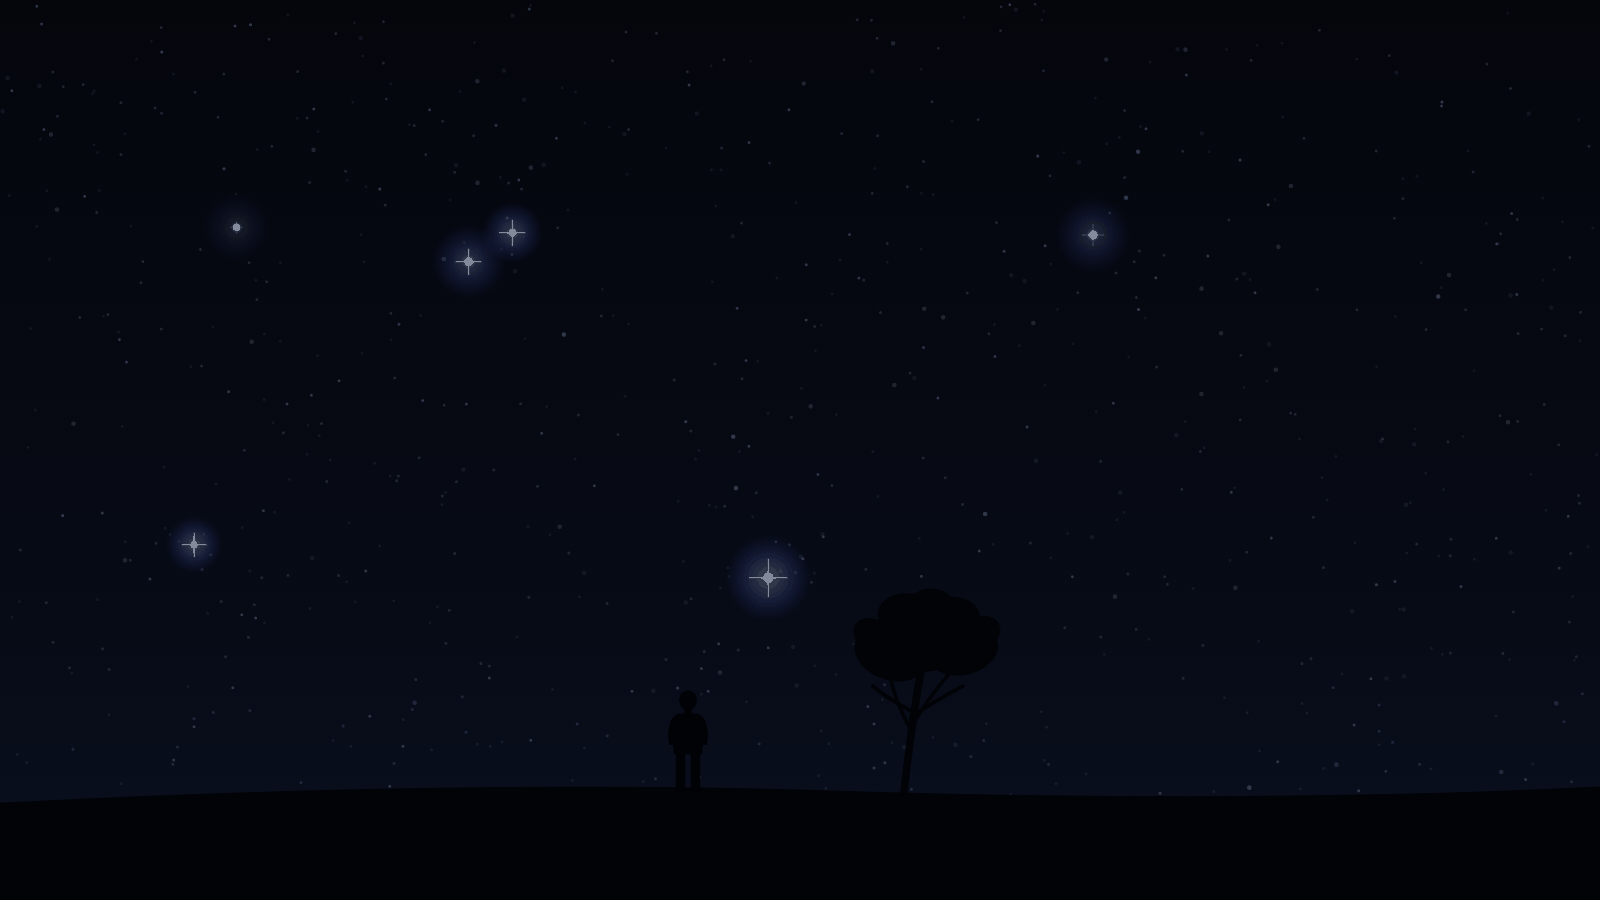
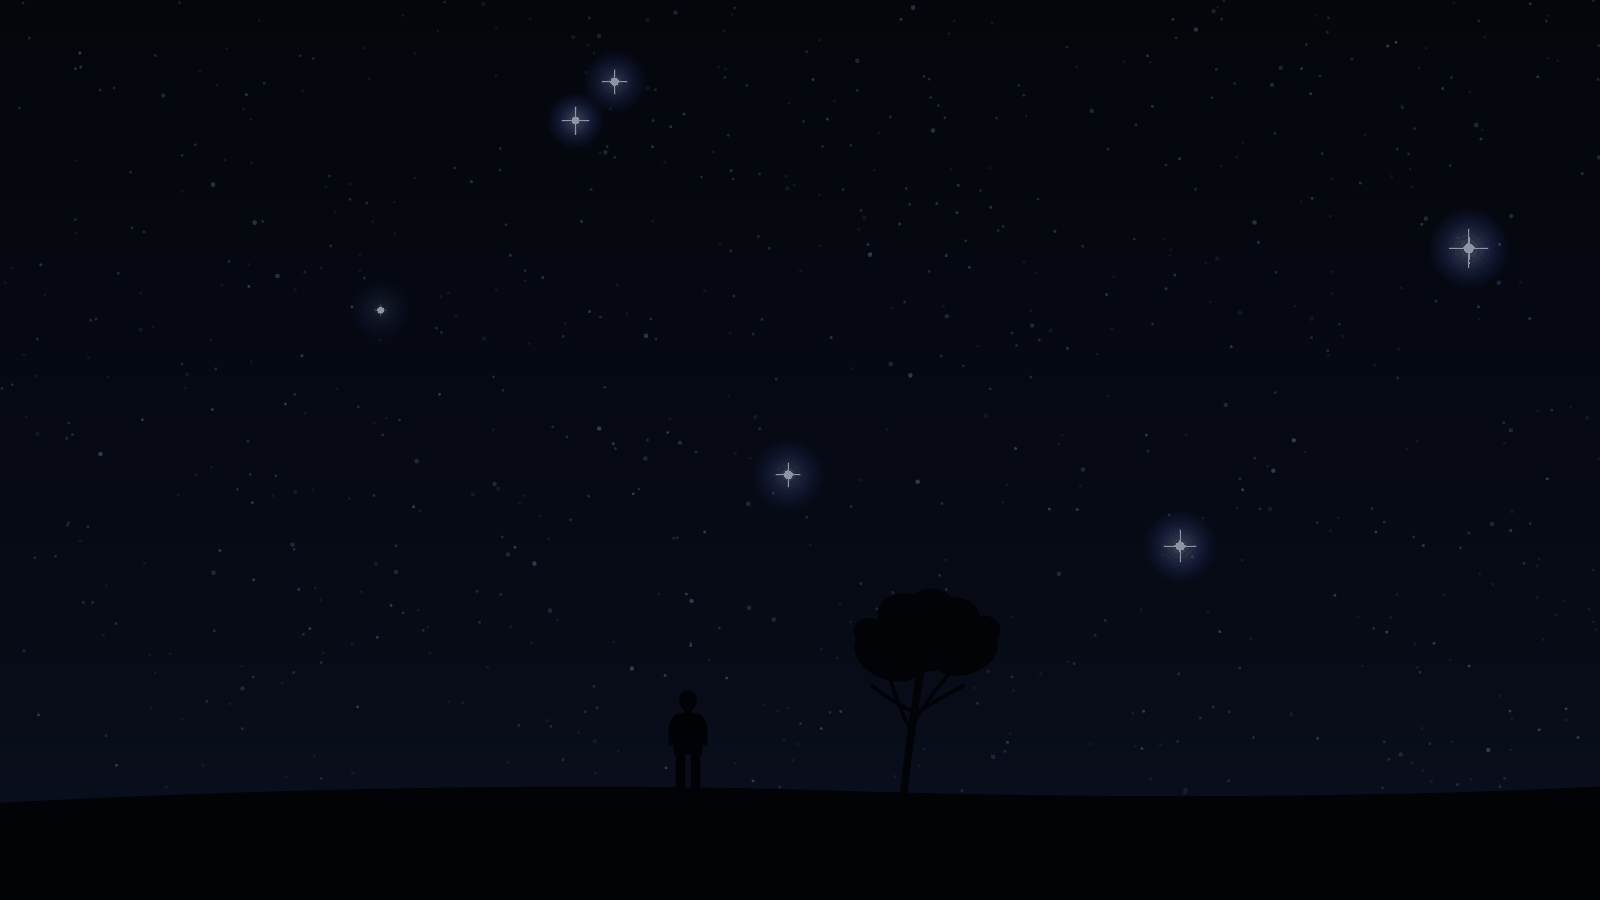
lab: 별 헤는 밤 — 누른 자리에 형상 고정(2.4초), 뗀 뒤 제자리에서 천천히 소멸
Claude-Session: https://claude.ai/code/session_018PZQoZuo4q6Eeps3ot9wVF

diff --git a/lab/sketches.js b/lab/sketches.js
@@ -50,4 +50,4 @@ LAB_ADD({ slug: "memory-surface", title: "Memory Surface", tech: "CANVAS 2D", ye
 LAB_ADD({ slug: "moire-lens", title: "Moiré Lens", tech: "CANVAS 2D", year: "2026", by: "ai", model: "GPT-6 Astra Light", summary: "같은 선, 다른 각도. 렌즈를 옮기고 각도를 바꾸면 두 겹의 선 사이에서 새로운 무늬가 나타납니다.", making: true });
 LAB_ADD({ slug: "laputa", title: "Laputa", tech: "three.js", year: "2026", by: "pair", model: "GPT-6 Astra Light", summary: "하늘 위 오래된 성을 탐색합니다. 드래그로 돌아보고, 휠로 가까이 다가가고, 더블클릭으로 작은 장소를 발견하세요.", making: true });
 LAB_ADD({ slug: "laputa-skyward", title: "Laputa / Skyward", tech: "three.js", year: "2026", by: "pair", model: "GPT-6 Astra Light", summary: "구름 사이를 돌아 하늘 위 성으로 다가갑니다. 느린 하늘과 함께 라퓨타를 탐색하는 두 번째 장면.", making: true });
-LAB_ADD({ slug: "star-counting-night", title: "별 헤는 밤", tech: "CANVAS 2D", year: "2026", by: "pair", model: "GPT-6 Astra Light · Claude Opus 5", summary: "윤동주의 시에서 시작한 밤하늘. 꾹 누르면 희미한 별들이 모여 형태가 되고, 손을 떼면 흩어지며 밝은 별 하나와 시구 한 줄이 남습니다.", making: true });
+LAB_ADD({ slug: "star-counting-night", title: "별 헤는 밤", tech: "CANVAS 2D", year: "2026", by: "pair", model: "GPT-6 Astra Light · Claude Opus 5", summary: "윤동주의 시에서 시작한 밤하늘. 누른 자리를 2~3초 지키면 희미한 별들이 모여 형상이 맺히고, 손을 떼면 그대로 천천히 옅어지며 밝은 별 하나와 시구 한 줄이 남습니다.", making: true });

diff --git a/lab/sketches/star-counting-night.html b/lab/sketches/star-counting-night.html
@@ -144,8 +144,11 @@ function sampleForm(count){
   return pts;
 }
 
-function gather(px,py){
+function gather(){
   const R=Math.min(w,h)*(0.15+Math.random()*0.06);
+  // 커서 위치가 아니라, 화면 가운데 근처에서 무작위로 자리를 잡습니다
+  const px=w*(0.5+(Math.random()-0.5)*0.34);
+  const py=h*(0.40+(Math.random()-0.5)*0.26);
   formCx=Math.max(R*1.15,Math.min(w-R*1.15,px));
   formCy=Math.max(R*1.15,Math.min(h*0.76-R*0.15,py));
   const count=Math.min(FAINT, 340+((Math.random()*180)|0));
@@ -365,15 +368,9 @@ canvas.addEventListener('pointerdown',e=>{
   if(pid!==null) return;
   pid=e.pointerId; canvas.setPointerCapture(pid); canvas.focus();
   holding=true;
-  const [x,y]=pos(e); gather(x,y);
+  gather();
   if(reduce.matches){ for(const s of faint) if(s.on){s.x=s.tx;s.y=s.ty;s.glow=1;} draw(); }
   else start();
-});
-canvas.addEventListener('pointermove',e=>{
-  if(e.pointerId!==pid||!holding) return;
-  const [x,y]=pos(e), dx=x-formCx, dy=y-formCy;
-  formCx=x; formCy=y;
-  for(const s of faint) if(s.on){ s.tx+=dx; s.ty+=dy; }
 });
 function up(e){
   if(e.pointerId!==pid) return;
@@ -389,7 +386,7 @@ canvas.addEventListener('keydown',e=>{
   if(e.key!==' '&&e.key!=='Enter') return;
   e.preventDefault();
   if(holding) return;
-  holding=true; gather(w*(0.25+Math.random()*0.5), h*(0.2+Math.random()*0.35));
+  holding=true; gather();
   start();
 });
 canvas.addEventListener('keyup',e=>{

diff --git a/lab/sketches/making/star-counting-night.md b/lab/sketches/making/star-counting-night.md
@@ -82,3 +82,16 @@ GPT가 만든 판(23,534자)은 선택 버튼 3개 · 이름 입력 dialog · PA
 검증: 1440×760 헤드리스 Chromium에서 **61fps, 콘솔 오류 0개**. idle / hold / 다른 hold / release 네 상태를 스크린샷으로 확인했습니다. 카드·커버 이미지는 새 장면으로 다시 찍었습니다.
 
 *GPT가 틀려서 고친 것이 아니라, 기획이 바뀌어 구조가 맞지 않았기 때문입니다.*
+
+### 고정과 여운 (2026.09, 2차)
+
+> 마우스 따라서 요소가 따라오는 게 아니라 마우스 클릭한 위치에 고정적으로 있다가 천천히 사라지게 해줘. 여운이 느껴지도록. 대신 클릭을 약 2~3초 정도 꾹 누르고 있어야 고정되게 하면 좋을거 같아
+
+- 형상이 맺히는 자리를 **누른 지점**으로 바꿨습니다. 이전에는 화면 가운데 근처에서 무작위로 잡혔습니다.
+- **2.4초** 이상 누르고 있어야 고정됩니다(`LOCK`). 그전에 떼면 형상이 맺히지 못하고 흩어지며, 밝은 별도 시구도 남지 않습니다.
+- 차오르는 동안 형상 둘레에 아주 옅은 호가 한 바퀴 돌아 남은 시간을 알립니다. 별빛도 30%에서 100%까지 같이 차오릅니다.
+- 손을 떼면 흩어지지 않고 **그 자리에 그대로 머문 채 4.2초에 걸쳐 옅어집니다**(`LINGER`). 다 사라진 뒤에야 별들이 보이지 않게 제자리로 돌아가 다시 켜집니다 — 되돌아가는 움직임이 보이면 여운이 끊깁니다.
+- 밝기 배수(`mul`)를 별마다 따로 두고, 사라질 때(1.05)와 돌아올 때(2.2) 속도를 다르게 했습니다. 사라지는 쪽이 느립니다.
+- 머무는 동안 다시 누르면 남아 있던 형상을 먼저 보내고 새로 시작합니다.
+
+검증: 1200×700에서 61fps, 콘솔 오류 0개. 짧게 누름 / 길게 누름(고정) / 뗀 직후 / 4초 뒤 네 상태를 스크린샷으로 확인했습니다.
